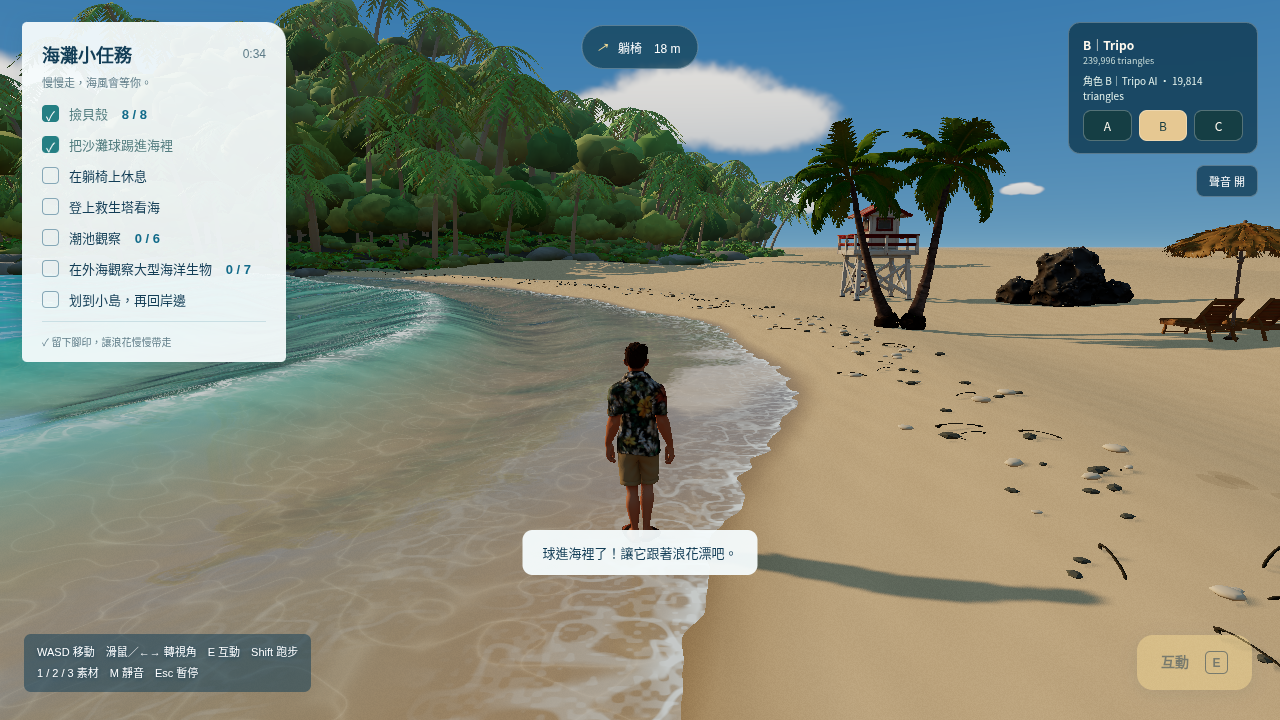
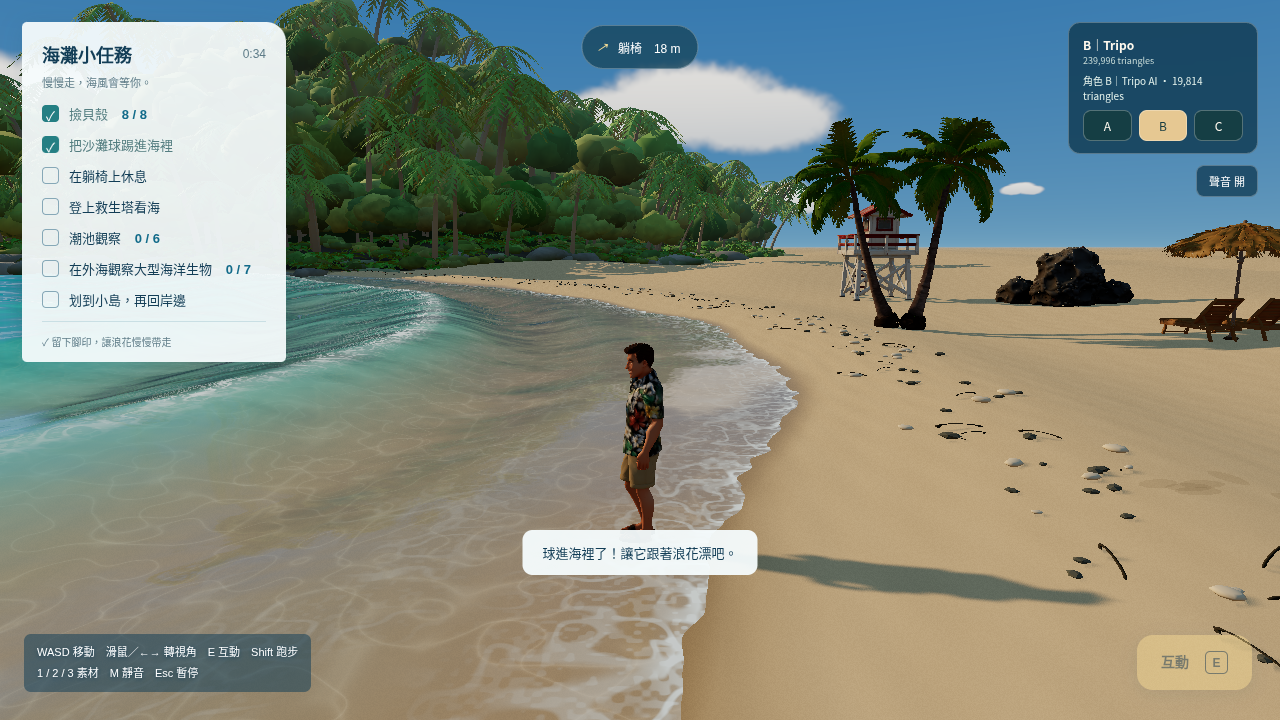
踢球改成射門動作：先走到球後方站定，踢球腳往後上拉、身體前傾，0.42 秒腳碰到球時球才飛出去，接著往前抬腿送出再收回，雙手前後擺動（A/B/C 共用 IK）；椰子樹只有樹幹擋路，樹腳那叢葉子不再擋人，走過時葉子往外撥開；重拍回歸截圖
Claude-Session: https://claude.ai/code/session_01USRpqyJ3nNu4mbR3gC6di4

Changed region(s): [[0.5938, 0.7639, 0.8438, 0.8556], [0.4688, 0.4889, 0.5312, 0.7333]]

diff --git a/src/game/index.js b/src/game/index.js
@@ -55,6 +55,7 @@ export async function createGame({scene,camera,renderer,water,config,explore:e,a
  // World-space contacts for the character's IK layer in the current mode.
  function poseIK(){
   if(mode==='walk'&&pickup&&pickup.age>=0)return pickupIK();
+  if(mode==='walk'&&kick&&kick.age>=0)return kickIK();
   // Landing from a jump: the knees take it (hips dip about 9 cm within 0.07 s, then ease back up).
   if(mode==='walk'){if(e.airborne)return null;const age=lastTime-landedAt,dip=age<0||age>.6?0:age<.07?age/.07:Math.exp(-(age-.07)*9);return {ground:groundHeight,spine:{lean:walkLean+.12*dip},pelvis:-.09*dip*landSize};}
   if(mode==='tower'&&anchors.lifeguard.ladder?.kind==='stairs')return {ground:towerSurface};
@@ -65,7 +66,7 @@ export async function createGame({scene,camera,renderer,water,config,explore:e,a
  }
  // Speeding up the body leans into it, slowing down it leans back a little (about 6° at most).
  let walkLean=0;
- function updateCharacter(dt){walkLean=mode==='walk'&&dt?T.MathUtils.damp(walkLean,T.MathUtils.clamp(e.accel*.03,-.1,.1),6,dt):mode==='walk'?walkLean:0;const pose=mode==='rest'?(anchors.umbrella.surface.kind==='lounger'?'lie':'sand'):mode==='boat'?(launch.active&&launch.board<BOARD_SIT?'stand':'paddle'):mode==='tower'&&(anchors.lifeguard.ladder?climb.onLadder&&towerT>0:modeAge<1.1)?'climb':'stand';character.update(dt,{speed:mode==='walk'?(pickup?pickupSpeed:e.speed):mode==='tower'?climb.speed:mode==='boat'&&launch.active?launch.speed:0,airborne:e.airborne,pose,recline:mode==='rest'?anchors.umbrella.surface.lie?.recline??0:0,first:e.first,fade:followCamera.distance<2.2?.4:1,ik:poseIK(),snapPose:launch.snap});launch.snap=false;const info=character.info();let node=$('#character-stats');if(!node){node=document.createElement('span');node.id='character-stats';$('#stats').after(node);}node.textContent=`角色 ${info.source}${info.fallback?'（備援）':''} · ${info.triangles.toLocaleString()} triangles`;}
+ function updateCharacter(dt){walkLean=mode==='walk'&&dt?T.MathUtils.damp(walkLean,T.MathUtils.clamp(e.accel*.03,-.1,.1),6,dt):mode==='walk'?walkLean:0;const pose=mode==='rest'?(anchors.umbrella.surface.kind==='lounger'?'lie':'sand'):mode==='boat'?(launch.active&&launch.board<BOARD_SIT?'stand':'paddle'):mode==='tower'&&(anchors.lifeguard.ladder?climb.onLadder&&towerT>0:modeAge<1.1)?'climb':'stand';character.update(dt,{speed:mode==='walk'?(pickup||kick?pickupSpeed:e.speed):mode==='tower'?climb.speed:mode==='boat'&&launch.active?launch.speed:0,airborne:e.airborne,pose,recline:mode==='rest'?anchors.umbrella.surface.lie?.recline??0:0,first:e.first,fade:followCamera.distance<2.2?.4:1,ik:poseIK(),snapPose:launch.snap});launch.snap=false;const info=character.info();let node=$('#character-stats');if(!node){node=document.createElement('span');node.id='character-stats';$('#stats').after(node);}node.textContent=`角色 ${info.source}${info.fallback?'（備援）':''} · ${info.triangles.toLocaleString()} triangles`;}
  const ringMat=new T.MeshBasicMaterial({color:0xffe18a,transparent:true,opacity:.85,side:T.DoubleSide,depthWrite:false});const destination=new T.Mesh(new T.TorusGeometry(8,.2,8,64),ringMat);destination.rotation.x=-Math.PI/2;destination.position.set(island.x,.6,island.z);scene.add(destination);
  const buoy=new T.Mesh(new T.CylinderGeometry(.2,.4,4,8),new T.MeshStandardMaterial({color:0xffb64f}));buoy.position.set(island.x,2,island.z);scene.add(buoy);
  // Lifeguard tower ladder: the widest opening in the deck railing, at the deck edge (the beach side wins ties). A
@@ -423,6 +424,51 @@ export async function createGame({scene,camera,renderer,water,config,explore:e,a
   if(a>=.85){if(item.held){objects.burst(item.held.x,item.held.y,item.held.z,t);item.held=null;item.born=-100;}pickup=null;e.setHold(false);}
   return 0;
  }
+ // Kicking the ball like a shot: step up behind it (the kicking foot in line with it), draw the leg back with the knee
+ // bent and the upper body leaning forward, swing through (the ball leaves at contact, KICK_HIT) and follow through
+ // forward and up, the arms swinging against the leg. A function of the time since the wind-up began.
+ const KICK_HIT=.42,KICK_END=.95;let kick=null;
+ function startKick(){
+  const b=objects.ball.position,dx=b.x-e.player.x,dz=b.z-e.player.z,d=Math.hypot(dx,dz)||1,f=[dx/d,dz/d];
+  // The kicking foot is the right one (avatar -x); r points to its side. Standing it in line with the ball puts the
+  // body 10 cm to the other side.
+  const foot=Math.max(0,character.side.findIndex(s=>s<0)),sk=character.side[foot],r=[sk*f[1],-sk*f[0]];
+  kick={age:-1,foot,f,r,spot:new T.Vector3(b.x-f[0]*.78-r[0]*.12,0,b.z-f[1]*.78-r[1]*.12),keys:null,plant:null};e.setHold(true);
+ }
+ function runKick(dt,t){
+  const k=kick,b=objects.ball.position,toSpot=Math.hypot(k.spot.x-e.player.x,k.spot.z-e.player.z);
+  if(k.age<0){
+   const step=Math.min(toSpot,1.4*dt);let speed=0;
+   if(toSpot>.01){e.player.x+=(k.spot.x-e.player.x)/toSpot*step;e.player.z+=(k.spot.z-e.player.z)/toSpot*step;e.player.y=groundHeight(e.player.x,e.player.z);speed=step/Math.max(dt,1e-6);e.avatar.rotation.y=Math.atan2(k.spot.x-e.avatar.position.x,k.spot.z-e.avatar.position.z);}
+   else{const want=Math.atan2(k.f[0],k.f[1]),turn=Math.atan2(Math.sin(want-e.avatar.rotation.y),Math.cos(want-e.avatar.rotation.y));e.avatar.rotation.y+=turn*(1-Math.exp(-14*dt));
+    if(Math.abs(turn)<.1){k.age=0;e.avatar.rotation.y=want;
+     // Key positions of the kicking foot (world): where it stands, drawn back, at the ball, followed through.
+     const H=character.hipHeight,P=e.player,A=character.ankleHeight,at=(fw,rt,up)=>new T.Vector3(P.x+k.f[0]*fw+k.r[0]*rt,groundHeight(P.x+k.f[0]*fw,P.z+k.f[1]*fw)+A+up,P.z+k.f[1]*fw+k.r[1]*rt);
+     const start=character.footWorld(k.foot,new T.Vector3());
+     k.plant=character.footWorld(1-k.foot,new T.Vector3());k.plant.y=groundHeight(k.plant.x,k.plant.z)+A;
+     k.keys=[start,at(-.42*H,.12,.42*H),at(-.15*H,.1,.12*H),new T.Vector3(b.x-k.f[0]*.46,groundHeight(b.x,b.z)+A+.14,b.z-k.f[1]*.46),at(.55*H,.02,.8*H),start.clone()];}}
+   e.avatar.position.copy(e.player);return speed;
+  }
+  k.age+=dt;
+  if(k.age>=KICK_HIT&&!k.hit){k.hit=true;ball.kick(e.player);e.sfx('kick');kickedAt=t;const fx=e.player.x+k.f[0]*.45,fz=e.player.z+k.f[1]*.45;if(groundHeight(fx,fz)>.015)objects.puff(fx,fz,t,.7,k.f[0],k.f[1]);}
+  if(k.age>=KICK_END){kick=null;e.setHold(false);}
+  return 0;
+ }
+ const kickFoot=new T.Vector3(),kickHands=[new T.Vector3(),new T.Vector3()];
+ function kickIK(){
+  const k=kick,a=k.age,s=T.MathUtils.smoothstep;
+  // Foot path through the keys: wind-up, swing (fastest just before the ball), follow-through, back down.
+  const times=[0,.3,.38,KICK_HIT,.6,KICK_END];let i=0;while(i<times.length-2&&a>times[i+1])i++;
+  const u=T.MathUtils.clamp((a-times[i])/(times[i+1]-times[i]),0,1),w=i===0||i===4?s(u,0,1):u;
+  kickFoot.lerpVectors(k.keys[i],k.keys[i+1],w);
+  const feet=[null,null];feet[k.foot]=kickFoot;feet[1-k.foot]=k.plant;
+  const lean=.42*s(a,0,.3)+.1*Math.exp(-(((a-KICK_HIT)/.08)**2))-.4*s(a,.55,KICK_END),dip=s(a,.1,.3)*(1-s(a,.6,KICK_END));
+  // Arms against the leg: the kicking side's arm back, the other forward and out (the most at contact).
+  const H=character.hipHeight,P=e.player,arm=s(a,.05,.3)*(1-s(a,.65,KICK_END)),swing=s(a,.3,.5);
+  const side=i=>i===k.foot?1:-1;
+  for(let j=0;j<2;j++){const fw=j===k.foot?T.MathUtils.lerp(.15,-.3,swing):T.MathUtils.lerp(-.1,.35,swing),rt=side(j)*.38;kickHands[j].set(P.x+k.f[0]*fw*H+k.r[0]*rt*H,P.y+1.05*H,P.z+k.f[1]*fw*H+k.r[1]*rt*H);}
+  return {feet,footWeight:[1,1],hands:kickHands,handWeight:[.6*arm,.6*arm],pelvis:-.06*dip,ground:groundHeight,spine:{lean},look:objects.ball.position,lookWeight:.7*(1-s(a,.5,.8))};
+ }
  // Pose for the pickup: squat (pelvis down, feet planted), bend over, reach and close the hand, look at the shell.
  function pickupIK(){
   const p=pickup,a=Math.max(0,p.age),down=T.MathUtils.smoothstep(a,0,.3)*(1-T.MathUtils.smoothstep(a,.55,.9));
@@ -434,17 +480,17 @@ export async function createGame({scene,camera,renderer,water,config,explore:e,a
   hands[p.hand]=reachPoint;weight[p.hand]=T.MathUtils.smoothstep(a,.02,.3)*(1-T.MathUtils.smoothstep(a,.7,.9));curl[p.hand]=T.MathUtils.smoothstep(a,.34,.44);
   return {hands,handWeight:weight,curl,pelvis:-.3*down,ground:groundHeight,spine:{lean:1.05*down},look:p.grabbed?null:new T.Vector3(item.x,item.y,item.z),lookWeight:down};
  }
- function interact(){if(!running||completed||!e.active||e.busy||lagoon.isOpen||pickup)return;near=nearTarget();if(!near){if(mode==='boat')toast('划回岸邊的金色圓環，就能下船。');return;}
+ function interact(){if(!running||completed||!e.active||e.busy||lagoon.isOpen||pickup||kick)return;near=nearTarget();if(!near){if(mode==='boat')toast('划回岸邊的金色圓環，就能下船。');return;}
   if(near.kind==='skip'){fade();afloat();return;}
   if(near.kind==='leave'){leave();return;}
   if(near.kind==='opensea'){const c=near.item;if(sea.observe(c.i)){const count=sea.seen.length;state.spotted=count;e.sfx('pickup');toast(count===7?'7 種海洋生物都觀察到了！划回岸邊吧。':`觀察到${c.spec.name}：${c.spec.note}（${count} / 7）`);if(count===7)state.opensea=true;renderHud();}return;}
   if(near.kind==='shell'&&!near.item.collected)startPickup(near.item);
-  if(near.kind==='ball'){ball.kick(e.player);character.trigger('kick');e.sfx('kick');kickedAt=lastTime;const b=objects.ball.position,n=Math.hypot(b.x-e.player.x,b.z-e.player.z)||1,dx=(b.x-e.player.x)/n,dz=(b.z-e.player.z)/n,fx=e.player.x+dx*.45,fz=e.player.z+dz*.45;if(groundHeight(fx,fz)>.015)objects.puff(fx,fz,lastTime,.7,dx,dz);}
+  if(near.kind==='ball')startKick();
   if(near.kind==='umbrella')enter('rest');if(near.kind==='lifeguard')enter('tower');if(near.kind==='boat')enter('boat');if(near.kind==='tidepool')enter('tidepool');renderHud();
  }
  addEventListener('keydown',event=>{if(event.code==='KeyE'&&!event.repeat){event.preventDefault();interact();}});$('#interact').onclick=interact;$('#game-audio').onclick=()=>e.mute();
  function complete(){camera.position.fromArray(config.cameras.wide.pos);target.fromArray(config.cameras.wide.target);camera.lookAt(target);completed=true;running=false;e.setDriven(true);e.clearInput();document.exitPointerLock?.();$('#start').hidden=true;$('#complete').hidden=false;document.body.classList.add('game-complete');$('#finish-time').textContent=`這次的海邊時光　${formatTime(elapsed)}`;$('#finish-bonus').textContent=state.footprints?'還留下了一串會消失的腳印。':'下次來，試著在沙灘上留一串腳印。';$('#replay').focus();}
- function reset(){if(pickup){pickup=null;e.setHold(false);}if(hiddenBoat)hiddenBoat.visible=true;hiddenBoat=null;vessel.visible=false;launch.active=false;oar.visible=true;mode='walk';completed=false;running=false;elapsed=0;boatSpeed=0;footDistance=0;for(const key of Object.keys(state))state[key]=['shells','footprints','spotted','observed'].includes(key)?0:false;lagoon.reset();sea.reset();splash.reset();wake.reset();objects.reset();ball.reset();e.player.set(-7,groundHeight(-7,12),12);lastPlayer.copy(e.player);e.avatar.rotation.set(0,0,0);seated(false);e.setDriven(false);e.setView(.15);e.clearInput();$('#complete').hidden=true;document.body.classList.remove('game-complete');lastHud='';$('#footnote').textContent='額外的小紀念：在沙上留下腳印';e.start();begin();fade();}
+ function reset(){if(pickup||kick){pickup=null;kick=null;e.setHold(false);}if(hiddenBoat)hiddenBoat.visible=true;hiddenBoat=null;vessel.visible=false;launch.active=false;oar.visible=true;mode='walk';completed=false;running=false;elapsed=0;boatSpeed=0;footDistance=0;for(const key of Object.keys(state))state[key]=['shells','footprints','spotted','observed'].includes(key)?0:false;lagoon.reset();sea.reset();splash.reset();wake.reset();objects.reset();ball.reset();e.player.set(-7,groundHeight(-7,12),12);lastPlayer.copy(e.player);e.avatar.rotation.set(0,0,0);seated(false);e.setDriven(false);e.setView(.15);e.clearInput();$('#complete').hidden=true;document.body.classList.remove('game-complete');lastHud='';$('#footnote').textContent='額外的小紀念：在沙上留下腳印';e.start();begin();fade();}
  $('#replay').onclick=reset;
  document.addEventListener('pointerlockchange',()=>{if(completed||mode==='tidepool'||lagoon.isOpen)$('#start').hidden=true;});
  // Kayak stroke: over one cycle each blade enters forward of the hip, pulls back and lifts out (phase 0..π: +x blade).
@@ -633,6 +679,7 @@ export async function createGame({scene,camera,renderer,water,config,explore:e,a
    camera.position.lerp(camGoal,1-Math.exp(-3*dt));target.lerp(camLook,1-Math.exp(-3*dt));camera.lookAt(target);
   }else{camera.getWorldDirection(target);target.multiplyScalar(10).add(camera.position);}
   if(pickup&&mode==='walk')pickupSpeed=runPickup(simDt,t);
+  if(kick&&mode==='walk')pickupSpeed=runKick(simDt,t);
   updateCharacter(simDt);
   // Footprints where a foot really comes down: it has stopped moving across the sand (0.08 s under 0.3 m/s) near
   // the rig's lowest foot height; it must lift (8 cm higher or moving fast) before it can print again. So the steps
@@ -699,6 +746,6 @@ export async function createGame({scene,camera,renderer,water,config,explore:e,a
    }});
   return [...targets,sand].map(t=>({id:t.id,n:t.n,max:+t.max.toFixed(3),worst:t.worst}));
  }
- if(auto){Object.assign(api,{penetration,boardInfo(){return {stern:boat.stern,hull:boat.hull,seat:boatSeat.point.toArray(),floorY:row.floorY,deck:boat.deck?.map(d=>[+d.z.toFixed(2),+d.y.toFixed(2),...d.gun.map(g=>g&&[+g.x.toFixed(2),+g.y.toFixed(2)])]),player:e.player.toArray(),feet:launch.feet.map(f=>f.toArray()),hands:launch.hands.map(h=>h.toArray()),pelvis:launch.pelvis,lean:launch.lean,vessel:vessel.matrixWorld.elements.slice()};},boatInfo(){const b=new T.Box3().setFromObject(boatModel,true);return {draft:boat.draft,mask:boat.mask?boat.mask.geometry.attributes.position.count:0,keelBelowWater:+(vessel.position.y-b.min.y).toFixed(3),gunwaleAboveWater:+(b.max.y-vessel.position.y).toFixed(3)};},ladder(){return anchors.lifeguard.ladder;},climbState(){return {towerT,towerDir,root:climb.root.toArray(),hands:climb.hands.map(h=>h.toArray()),player:e.player.toArray(),total:towerTotal()};},footWorld(i){return character.footWorld(i,new T.Vector3());},handWorld(i){return character.rig.hand[i].getWorldPosition(new T.Vector3());},teleport(x,z){if(mode!=='walk')throw Error('Teleport is only available on foot');e.player.set(x,groundHeight(x,z),z);lastPlayer.copy(e.player);},targets(){return {shells:objects.items.map(s=>({x:s.x,y:s.y,z:s.z,collected:s.collected})),ball:objects.ball.position.toArray(),umbrella:anchors.umbrella.point.toArray(),tidepool:pool.point.toArray(),lagoon:pool.point.toArray(),lifeguard:anchors.lifeguard.point.toArray(),boat:anchors.boat.point.toArray(),dock,island};},step(seconds){let remaining=seconds;while(remaining>1e-6){const dt=Math.min(1/60,remaining);window.__TIME__=time()+dt;water.material.uniforms.time.value=window.__TIME__;e.update(dt);update(dt,window.__TIME__);remaining-=dt;}water.userData.simTime=window.__TIME__;},steer(angle){if(mode!=='boat')throw Error('Not in boat');boatYaw=angle;},view(yaw){e.setView(yaw);},wave(x,z,t){return {...sampleWater(x,z,t,{}),drawn:surfaceHeight(x,z,t)};}});Object.defineProperty(api,'feel',{get(){return {landedAt,landSize,kickedAt};}});Object.defineProperty(api,'pushBoat',{get(){return pushBoat;},set(v){pushBoat=!!v;}});Object.defineProperty(api,'launch',{get(){return {active:launch.active,board:launch.board,speed:launch.speed,hands:launch.hands.map(h=>h.toArray())};}});Object.defineProperty(api,'vessel',{get(){return {x:vessel.position.x,y:vessel.position.y,z:vessel.position.z,yaw:boatYaw,speed:boatSpeed};}});window.__GAME__=api;}
+ if(auto){Object.assign(api,{penetration,boardInfo(){return {stern:boat.stern,hull:boat.hull,seat:boatSeat.point.toArray(),floorY:row.floorY,deck:boat.deck?.map(d=>[+d.z.toFixed(2),+d.y.toFixed(2),...d.gun.map(g=>g&&[+g.x.toFixed(2),+g.y.toFixed(2)])]),player:e.player.toArray(),feet:launch.feet.map(f=>f.toArray()),hands:launch.hands.map(h=>h.toArray()),pelvis:launch.pelvis,lean:launch.lean,vessel:vessel.matrixWorld.elements.slice()};},boatInfo(){const b=new T.Box3().setFromObject(boatModel,true);return {draft:boat.draft,mask:boat.mask?boat.mask.geometry.attributes.position.count:0,keelBelowWater:+(vessel.position.y-b.min.y).toFixed(3),gunwaleAboveWater:+(b.max.y-vessel.position.y).toFixed(3)};},ladder(){return anchors.lifeguard.ladder;},climbState(){return {towerT,towerDir,root:climb.root.toArray(),hands:climb.hands.map(h=>h.toArray()),player:e.player.toArray(),total:towerTotal()};},footWorld(i){return character.footWorld(i,new T.Vector3());},handWorld(i){return character.rig.hand[i].getWorldPosition(new T.Vector3());},teleport(x,z){if(mode!=='walk')throw Error('Teleport is only available on foot');e.player.set(x,groundHeight(x,z),z);lastPlayer.copy(e.player);},targets(){return {shells:objects.items.map(s=>({x:s.x,y:s.y,z:s.z,collected:s.collected})),ball:objects.ball.position.toArray(),umbrella:anchors.umbrella.point.toArray(),tidepool:pool.point.toArray(),lagoon:pool.point.toArray(),lifeguard:anchors.lifeguard.point.toArray(),boat:anchors.boat.point.toArray(),dock,island};},step(seconds){let remaining=seconds;while(remaining>1e-6){const dt=Math.min(1/60,remaining);window.__TIME__=time()+dt;water.material.uniforms.time.value=window.__TIME__;e.update(dt);update(dt,window.__TIME__);remaining-=dt;}water.userData.simTime=window.__TIME__;},steer(angle){if(mode!=='boat')throw Error('Not in boat');boatYaw=angle;},view(yaw){e.setView(yaw);},wave(x,z,t){return {...sampleWater(x,z,t,{}),drawn:surfaceHeight(x,z,t)};}});Object.defineProperty(api,'feel',{get(){return {landedAt,landSize,kickedAt};}});Object.defineProperty(api,'kick',{get(){return kick&&{age:kick.age,foot:kick.foot,hit:!!kick.hit};}});Object.defineProperty(api,'pushBoat',{get(){return pushBoat;},set(v){pushBoat=!!v;}});Object.defineProperty(api,'launch',{get(){return {active:launch.active,board:launch.board,speed:launch.speed,hands:launch.hands.map(h=>h.toArray())};}});Object.defineProperty(api,'vessel',{get(){return {x:vessel.position.x,y:vessel.position.y,z:vessel.position.z,yaw:boatYaw,speed:boatSpeed};}});window.__GAME__=api;}
  update(0,time());return api;
 }

diff --git a/src/explore.js b/src/explore.js
@@ -37,7 +37,8 @@ export function createExplore({ scene, camera, renderer, config, results, group,
   const CELL=.2,RADIUS=.26,blockCache=new WeakMap(),blocked=new Map(),key=(i,j)=>i*65536+j;
   const va=new T.Vector3(),vb=new T.Vector3(),vc=new T.Vector3(),vp=new T.Vector3(),instanceMatrix=new T.Matrix4(),world=new T.Matrix4();
   // keep(matrix): which instances of an InstancedMesh to include (all by default).
-  function rasterise(marker,keep=null){const cells=new Map();marker.updateMatrixWorld(true);
+  // slices (optional): each cell's 0.2 m height bands that hold geometry, as a bit mask (for trunkOnly below).
+  function rasterise(marker,keep=null,slices=null){const cells=new Map();marker.updateMatrixWorld(true);
     marker.traverse(o=>{if(!o.isMesh||!o.visible)return;const pos=o.geometry.attributes.position,index=o.geometry.index,count=index?index.count:pos.count;
       for(let n=0;n<(o.isInstancedMesh?o.count:1);n++){world.copy(o.matrixWorld);if(o.isInstancedMesh){o.getMatrixAt(n,instanceMatrix);if(keep&&!keep(instanceMatrix))continue;world.multiply(instanceMatrix);}
         for(let t=0;t<count;t+=3){const ia=index?index.getX(t):t,ib=index?index.getX(t+1):t+1,ic=index?index.getX(t+2):t+2;
@@ -45,14 +46,42 @@ export function createExplore({ scene, camera, renderer, config, results, group,
           if(Math.max(va.y,vb.y,vc.y)<-.5||Math.min(va.y,vb.y,vc.y)>4)continue;
           const steps=Math.max(1,Math.ceil(Math.max(va.distanceTo(vb),vb.distanceTo(vc),vc.distanceTo(va))/(CELL/2)));
           for(let u=0;u<=steps;u++)for(let v=0;v<=steps-u;v++){vp.copy(va).multiplyScalar(1-(u+v)/steps).addScaledVector(vb,u/steps).addScaledVector(vc,v/steps);
-            const h=vp.y-groundHeight(vp.x,vp.z);if(h<.12||h>1.85)continue;const k=key(Math.floor(vp.x/CELL),Math.floor(vp.z/CELL));cells.set(k,Math.max(cells.get(k)??-Infinity,vp.y));}}}});
+            const h=vp.y-groundHeight(vp.x,vp.z);if(h<.12||h>1.85)continue;const k=key(Math.floor(vp.x/CELL),Math.floor(vp.z/CELL));cells.set(k,Math.max(cells.get(k)??-Infinity,vp.y));if(slices)slices.set(k,(slices.get(k)??0)|1<<Math.min(8,Math.floor((h-.12)/.2)));}}}});
     return cells;}
+  // A palm blocks only with its trunk(s): the leafy plants round its foot (B's tall palm, C's pair) are pushed aside.
+  // Trunks are traced down from the top height band (1.65–1.85 m): each one's centre moves to the middle of the cells
+  // within 0.4 m of it in the next band down (so a leaning trunk is followed), and only cells within 0.3 m of the centre
+  // count. Leaves reaching in from the side barely shift the centre and are not kept.
+  function trunkOnly(marker){const slices=new Map(),cells=rasterise(marker,null,slices),trunk=new Map(),at=k=>{const i=Math.floor(k/65536);return [i,k-i*65536];};
+    const band=n=>[...slices].filter(([,m])=>m&1<<n).map(([k])=>k);
+    // Top band: one centre per cluster of touching cells.
+    let centres=[];for(const k of band(8).length?band(8):band(7)){const [i,j]=at(k),c=centres.find(c=>Math.abs(c.i-i)<=1.5&&Math.abs(c.j-j)<=1.5);if(c){c.n++;c.si+=i;c.sj+=j;c.i=c.si/c.n;c.j=c.sj/c.n;}else centres.push({i,j,si:i,sj:j,n:1});}
+    for(let n=8;n>=0;n--){const here=band(n).map(at);
+      for(const c of centres){const near=here.filter(([i,j])=>Math.hypot(i-c.i,j-c.j)<=2);if(!near.length)continue;
+        c.i=near.reduce((a,p)=>a+p[0],0)/near.length;c.j=near.reduce((a,p)=>a+p[1],0)/near.length;
+        for(const [i,j] of near)if(Math.hypot(i-c.i,j-c.j)<=1.5)trunk.set(key(i,j),cells.get(key(i,j)));}}
+    brushable(marker,trunk);return trunk;}
+  // Leaves within reach of the walker's body bend away from it (vertex shader); trunk cells and the crown stay put.
+  const brushAt={value:new T.Vector3(0,-100,0)};
+  function brushable(marker,trunk){marker.updateMatrixWorld(true);
+    marker.traverse(o=>{if(!o.isMesh||o.userData.brush)return;o.userData.brush=true;const pos=o.geometry.attributes.position,bend=new Float32Array(pos.count);
+      for(let i=0;i<pos.count;i++){vp.fromBufferAttribute(pos,i).applyMatrix4(o.matrixWorld);const h=vp.y-groundHeight(vp.x,vp.z),c=key(Math.floor(vp.x/CELL),Math.floor(vp.z/CELL));
+        let inTrunk=false;for(let a=-1;a<=1&&!inTrunk;a++)for(let b=-1;b<=1&&!inTrunk;b++)inTrunk=trunk.has(c+a*65536+b);
+        bend[i]=inTrunk?0:1-T.MathUtils.smoothstep(h,1.8,2.2);}
+      o.geometry=o.geometry.clone();o.geometry.setAttribute('brush',new T.BufferAttribute(bend,1));
+      const materials=(Array.isArray(o.material)?o.material:[o.material]).map(m=>{const c=m.clone();c.onBeforeCompile=shader=>{shader.uniforms.brushAt=brushAt;
+        shader.vertexShader='uniform vec3 brushAt;attribute float brush;\n'+shader.vertexShader.replace('#include <begin_vertex>',`#include <begin_vertex>
+        {vec4 bw=modelMatrix*vec4(transformed,1.);vec2 d=bw.xz-brushAt.xz;float dist=length(d),reach=.55;
+         float up=bw.y-brushAt.y,k=brush*(1.-smoothstep(1.3,1.8,up))*step(-.3,up)*(1.-smoothstep(reach*.5,reach,dist));
+         if(k>0.&&dist>1e-4){bw.xz+=d/dist*(reach-dist)*k;bw.y-=.12*k*max(up,0.);transformed=(inverse(modelMatrix)*bw).xyz;}}`);};
+        c.customProgramCacheKey=()=>'brush-'+m.type;return c;});
+      o.material=Array.isArray(o.material)?materials:materials[0];});}
   // The headland's plants, rocks and trunks block the same way, by their real shapes: only instances a walker on the
   // beach can reach (inside the walk area, rooted at most 1.5 m above the sand), rasterised once.
   let shoreCells=null;
   function shoreBlocked(){if(shoreCells)return shoreCells;const plants=scene.getObjectByName('island-vegetation');
     shoreCells=plants?rasterise(plants,m=>{const x=m.elements[12],z=m.elements[14];return x>33&&x<102&&z<29&&islandHeight(x,z)<groundHeight(x,z)+1.5;}):new Map();return shoreCells;}
-  function rebuildBlocked(){blocked.clear();for(const [k,top] of shoreBlocked())blocked.set(k,top);for(const marker of propRoot.children){if(!blockCache.has(marker))blockCache.set(marker,rasterise(marker));for(const [k,top] of blockCache.get(marker))blocked.set(k,Math.max(blocked.get(k)??-Infinity,top));}}
+  function rebuildBlocked(){blocked.clear();for(const [k,top] of shoreBlocked())blocked.set(k,top);for(const marker of propRoot.children){if(!blockCache.has(marker))blockCache.set(marker,/^palm/.test(marker.name)?trunkOnly(marker):rasterise(marker));for(const [k,top] of blockCache.get(marker))blocked.set(k,Math.max(blocked.get(k)??-Infinity,top));}}
   // Distance from (x,z) to the nearest blocking cell the player is not standing above.
   function clearance(x,z){let best=Infinity;const r=Math.ceil(RADIUS/CELL)+1,ci=Math.floor(x/CELL),cj=Math.floor(z/CELL);
     for(let i=ci-r;i<=ci+r;i++)for(let j=cj-r;j<=cj+r;j++){const top=blocked.get(key(i,j));if(top===undefined||player.y>top+.05)continue;
@@ -107,7 +136,7 @@ export function createExplore({ scene, camera, renderer, config, results, group,
   // Free space, or a move that gets out of a prop the player is already inside (e.g. after a teleport).
   function allowed(x,z){if(x< -34||x>100||z>27||groundHeight(x,z)<-.65||x>35&&!shoreClear(x,z))return false;const next=clearance(x,z);return next>=RADIUS||next>clearance(player.x,player.z);}
   function cameraBlocked(p){for(const c of colliders){const b=c.box;if(p.x>b.min.x-.2&&p.x<b.max.x+.2&&p.y>b.min.y-.2&&p.y<b.max.y+.2&&p.z>b.min.z-.2&&p.z<b.max.z+.2)return true;}return false;}
-  function update(dt){dt=Math.min(dt,.05);let dx=0,dz=0;
+  function update(dt){dt=Math.min(dt,.05);let dx=0,dz=0;brushAt.value.copy(player);
     if(active&&!photo&&!busy&&!driven){const forward=hold?0:Number(keys.has('KeyW')||keys.has('ArrowUp'))-Number(keys.has('KeyS')||keys.has('ArrowDown'))-joyY,side=hold?0:Number(keys.has('KeyD'))-Number(keys.has('KeyA'))+joyX;yaw+=(Number(keys.has('ArrowLeft'))-Number(keys.has('ArrowRight')))*2.2*dt;const amount=Math.hypot(forward,side),norm=Math.max(1,amount),wet=groundHeight(player.x,player.z)<.02,target=amount>.01?(keys.has('ShiftLeft')||keys.has('ShiftRight')?4.5:1.8)*(wet?.42:1)*Math.min(1,amount):0;
       // Speed changes at a body's pace, not in one frame: about 0.3 s to start walking, 0.8 s from a walk up to a run
       // or back down (a few shortening strides), 0.3 s to stop from a walk and about a second from a run. The

diff --git a/CLAUDE.md b/CLAUDE.md
@@ -108,7 +108,8 @@ There is no lint or unit-test setup. Verification means running the Playwright s
   - Splashes (`src/game/splash.js`): a blade crossing the water line (in or out) and, under way, both sides of the bow emit a splash event; drops and a speckled foam ring are a pure function of the time since the event. Paddle length and roll come from the hull: at the bottom of the stroke the blade is 16 cm under the water and 45 cm clear of the side (a blade dipped beside the hull read as spray from the boat). While a blade is in the water it leaves small swirls every 0.08 s. Drops are camera-facing quads stretched along their velocity (a streak, not a bead), leaving from across the blade's width; bigger splashes add a dim mist puff; a blade just out of the water drips for 0.8 s (drip events: three falling drops and a small ring where they land). Quad winding: the side vector must be `(dir.y,-dir.x)` or the quads are back-face culled. Splash heights use `surfaceHeight()`.
   - Wake and hull foam (`src/game/wake.js`): the stern is sampled every 0.15 s while under way; the wake is a foam ribbon over those samples that widens at about the Kelvin angle (capped at 1.2 m/s), breaks up and fades over 5.5 s, and is hidden over sand. A foam line hugs the hull at the water line (outline probed inward at local y 0 when the hull is set up), wider at the bow under way. Foam texture is fixed to the water (v along distance travelled, the ring in world space). Everything is a function of the samples and the time, so recordings stay deterministic. `surfaceHeight()` caches the displaced grid corners per time, so the hundreds of calls per frame stay under about 0.5 ms.
   - Boat: one stroke phase drives a double-bladed paddle, both hands (overhand grip), torso twist and thrust pulses. The hull is turned so its long axis runs along travel; the rower sits on a thwart near midships, feet braced on the floor.
-  - Shells: walk up, face, squat (pelvis down, feet planted), reach; the shell counts when the hand closes on it and rides in the hand. `explore.setHold()` blocks movement input without driving the camera.
+  - Shells: walk up, face, squat (pelvis down, feet planted), reach; the shell counts when the hand closes on it and rides in the hand.
+  - Ball (since 2026-10-22): a shot, not a clip. E walks the player to 0.78 m behind the ball with the right foot in line, then IK plays `kickIK()` as a function of the time since the wind-up: the foot drawn back and up with the knee bent and the upper body leaning forward (0.3 s), the swing to the ball's lower back (the ball leaves at contact, `KICK_HIT` 0.42 s), a follow-through forward and up, back down by 0.95 s; the arms swing against the leg. With `?auto=1`, `__GAME__.kick` reports it. `explore.setHold()` blocks movement input without driving the camera.
   - Tower: `findLadder()` probes a BVH copy of the tower, in this order. The climb is a function of time, so E plays it backward to climb down.
     1. Stairs (C): tread tops rising along one direction. The climber walks the centre line; foot IK finds the treads, ignoring the handrail.
     2. The tower's own ladder (A): evenly spaced thin hits that line up. Rung heights and lean are measured, so hands and feet land on real rungs.
@@ -140,7 +141,7 @@ There is no lint or unit-test setup. Verification means running the Playwright s
 - **Shadows.** The sun is low (about 22°). The shadow camera's depth range is set to the scene (near 5, far 200) with bias -.00005 and normalBias .03, map 4096: the old default range made bias -.0004 about 20 cm, so shadows started ~0.5 m from prop bases and props looked afloat.
 - **Game boat in the water.** The clone floats with a draft (keel a quarter of the hull height, 12–25 cm, under the water line; height and tilt fit the water at bow, stern and both sides, since near the shore a hull levelled at its centre had water 15 cm over its inside). The heights come from `surfaceHeight()` in `src/water.js`, the water as drawn: offshore the water mesh rows are 10–16 m apart, so the flat triangles stray 20–30 cm from the exact field (`sampleWater`), and every ten seconds or so a crest covered the whole inside of a hull that followed the exact field. A depth-only cap over the hull's inside (20 cm above the water line, `renderOrder` 1, water 2) keeps the opaque water plane from showing inside the hull; the water stays at least 8 cm under it along the whole route. The hull's long axis comes from the vertex spread (C's oars skewed the box) and the narrower end is the bow (B and C ran transom first before); the rower takes a thwart clear of the floor in the aft half, so the legs have room before the bow narrows. Its materials are double-sided (C's single-skin hull showed the sea from inside).
 - **Bloom guard.** `src/main.js` runs a pass before bloom that turns NaN/Inf pixels to black and caps values at 1e4; otherwise one bad pixel (seen near A's palm_pair in game mode) spreads over the whole frame and the verifier sees an "empty" frame. Normal pixels are unchanged (A stills match to 1 level).
-- **Collision.** The game camera uses BVH (`three-mesh-bvh`) copies of the real prop triangles. The player (`src/explore.js`) is blocked by prop geometry 0.12–1.85 m above the sand, rasterised into 0.2 m cells (body radius 0.26). Ball, boat and camera-probe collision still use the whole-prop AABBs in `colliders`.
+- **Collision.** The game camera uses BVH (`three-mesh-bvh`) copies of the real prop triangles. The player (`src/explore.js`) is blocked by prop geometry 0.12–1.85 m above the sand, rasterised into 0.2 m cells (body radius 0.26). Palms block only with their trunks (since 2026-10-22, all groups): `trunkOnly()` traces each trunk down from the top height band (centre follows a lean, cells within 0.3 m of it count), so the leafy plants round B's tall palm and C's pair no longer wall the walker off; those leaves (and any palm geometry below 2 m off the trunk) bend away from the walker in a vertex shader (`brushable()`, `brush` attribute, uniform at the player). Ball, boat and camera-probe collision still use the whole-prop AABBs in `colliders`.
 - **Game camera and feedback** (since 2026-10-22; project skills `camera-systems` and `game-feel` in `.claude/skills/`, from awesome-gamedev-agent-skills, Apache-2.0).
   - `src/game/camera.js`: the orbit centre leads the walker in the direction of travel (0.2 s of travel, at most 0.9 m: about 0.35 m walking, 0.9 m running), eased over about 0.3 s. A jump of over 3 m between frames (a teleport, a cut between modes) is a hard cut: no lead, the camera goes straight to its spot.
   - Landing from a jump (over 0.15 s in the air): sand kicked up (`objects.puff()`: 14 grains thrown out and falling back, a soft dust sprite; a pure function of the time since it) or, where the swash reaches, a splash; the hips dip about 9 cm within 0.07 s and ease back (`poseIK()` pelvis). A kick throws sand from in front of the foot towards the ball, and the ball squashes for 0.4 s. A count going up or a quest ticking off pops in the quest book (CSS, off with reduced motion). With `?auto=1`, `__GAME__.feel` reports `landedAt`, `landSize`, `kickedAt`.
